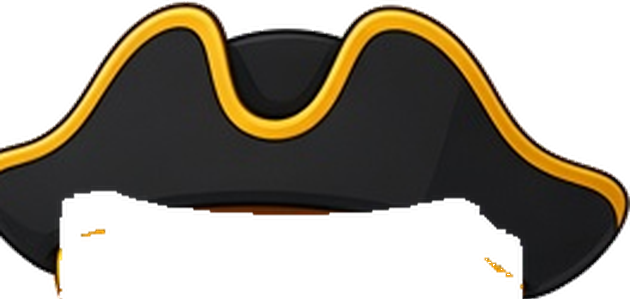
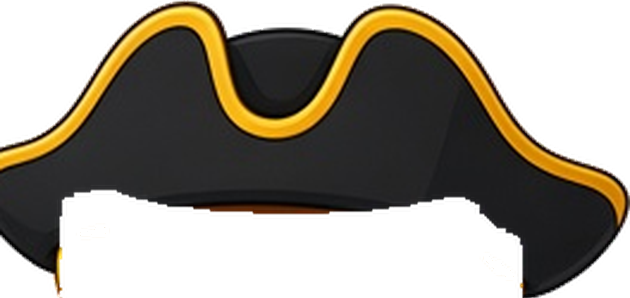
Clean stray gold scraps off the crown and the other hat and hair sprites.
The crown's side smudges were separate blobs, so the sprite is cropped back to the crown and its rim anchor moves with that crop. The same leftover pot-gold fringe is cleared from the other hats and hairs, including a yellow scrap under the succulent.

diff --git a/src/entities/piboLook.js b/src/entities/piboLook.js
@@ -51,9 +51,9 @@ export const HATS = [
   { id: "beanie", label: "Beanie", src: "assets/pibo/hats/beanie.png", anchorPx: { x: 263, y: 372 }, scale: 1 },
   { id: "strawhat", label: "Straw hat", src: "assets/pibo/hats/strawhat.png", anchorPx: { x: 370, y: 253 }, scale: 1 },
   { id: "wizard", label: "Wizard hat", src: "assets/pibo/hats/wizard.png", anchorPx: { x: 295, y: 382 }, scale: 1 },
-  { id: "crown", label: "Crown", src: "assets/pibo/hats/crown.png", anchorPx: { x: 240, y: 232 }, offset: { x: 0, y: 14 }, scale: 1 },
+  { id: "crown", label: "Crown", src: "assets/pibo/hats/crown.png", anchorPx: { x: 181, y: 232 }, offset: { x: 0, y: 14 }, scale: 1 },
   { id: "cap", label: "Cap", src: "assets/pibo/hats/cap.png", anchorPx: { x: 300, y: 248 }, scale: 1 },
-  { id: "pirate", label: "Pirate hat", src: "assets/pibo/hats/pirate.png", anchorPx: { x: 291, y: 256 }, scale: 1 },
+  { id: "pirate", label: "Pirate hat", src: "assets/pibo/hats/pirate.png", anchorPx: { x: 291, y: 255 }, scale: 1 },
 ];
 
 export const SCARVES = [
